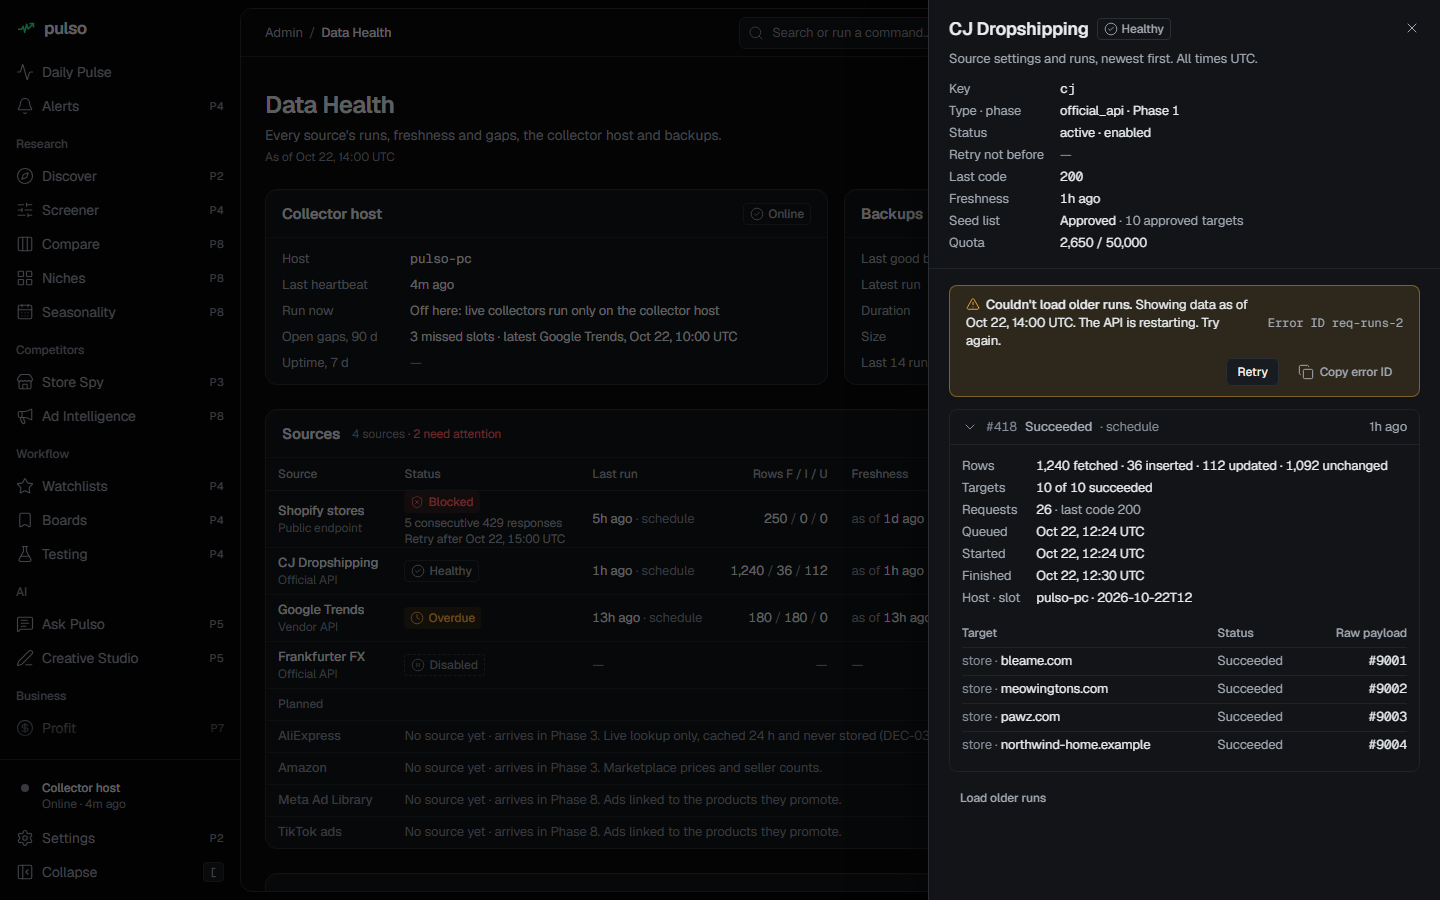
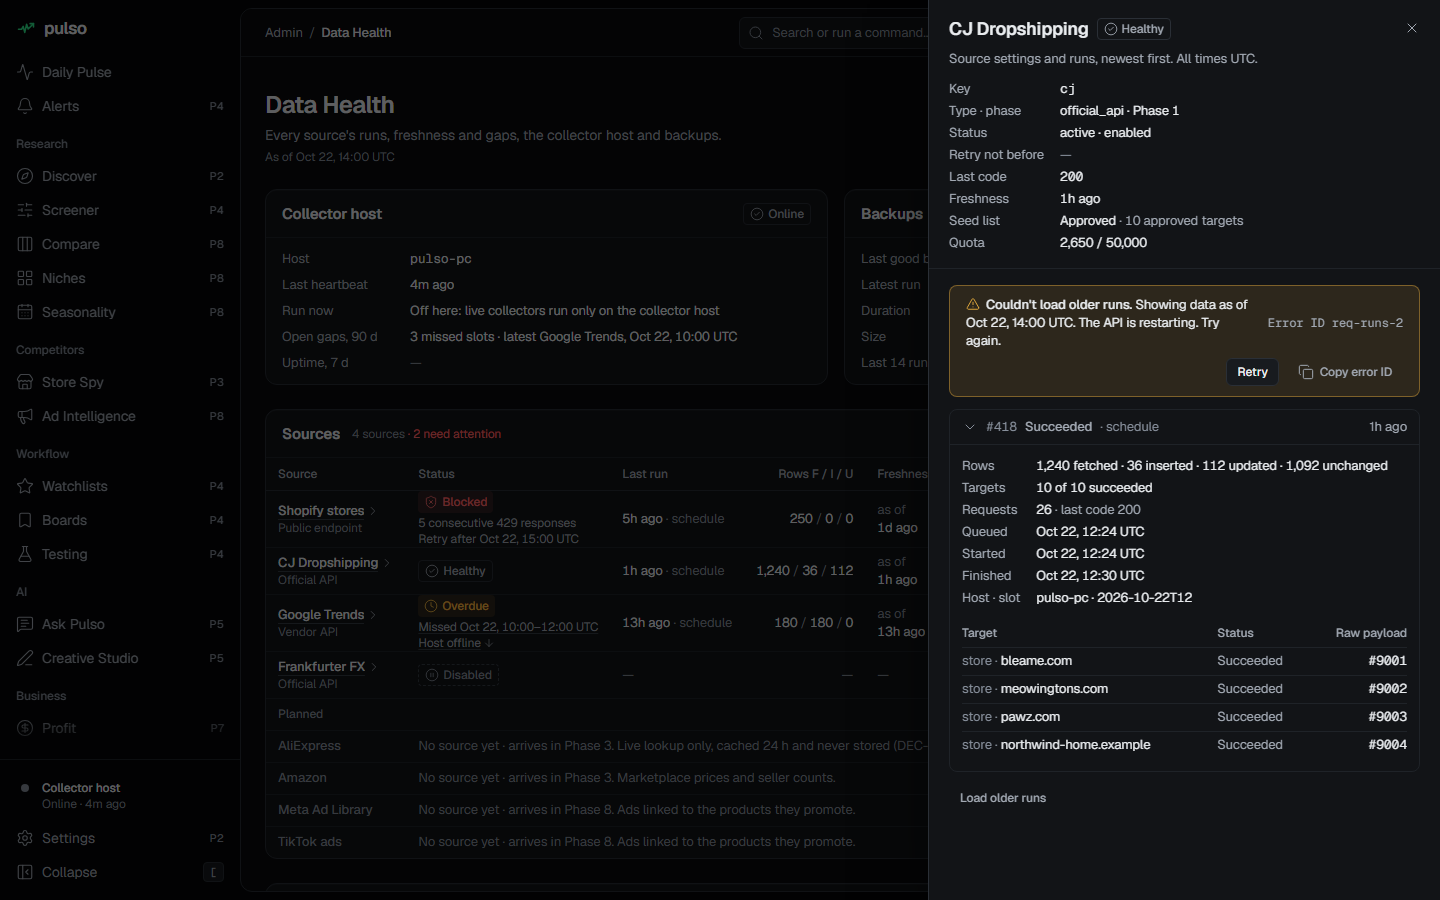
docs(imp-132): report the rebase onto imp-124 (75b194e); re-capture changed screenshots

diff --git a/docs/reports/imp-132.md b/docs/reports/imp-132.md
@@ -1,6 +1,6 @@
 # imp-132: a failed refresh keeps the data on screen
 
-Claude worker, Orca task `task_00e4b79bb63e`, dispatch `ctx_9520af0d9165`. Branch `CodySpooner/imp-132-stale-refresh`, code and spec tip `f41f716` (this report is committed on top) on `origin/main` `445f55d`. imp-123 and imp-133 weren't on `origin/main` at the final fetch, so they were checked by a trial merge (below). Frontend only: no API, schema, dependency, CI or env change. DEC-197 is used (proposed).
+Claude worker, Orca task `task_00e4b79bb63e`, dispatch `ctx_9520af0d9165`. Branch `CodySpooner/imp-132-stale-refresh`, code and spec tip `f41f716` (this report is committed on top) on `origin/main` `445f55d`. imp-123 and imp-133 weren't on `origin/main` at the final fetch, so they were checked by a trial merge (below). The branch has since been rebased onto imp-124 `75b194e`, which contains imp-123, imp-126 and imp-133 (see **Rebase**). Frontend only: no API, schema, dependency, CI or env change. DEC-197 is used (proposed).
 
 ## Result
 
@@ -81,6 +81,41 @@ Local note: another worktree's dev server held port 3100, and this worktree has 
 | `coverage-line-*` | Coverage panel after `/coverage` answered 503: strip; heatmap and open gaps kept |
 | `drawer-older-runs-*` | CJ drawer after "Load older runs" answered 503: line above the run already loaded |
 
+After the rebase, `page-line-*`, `sources-line-*` and `drawer-older-runs-1440-*` were re-captured: they now show imp-124's missed-slot note and imp-125's runs cue, the latter behind the drawer at 1440. The rest were pixel-identical and are kept.
+
+## Rebase
+
+Orca task `task_042cf8e71199`, dispatch `ctx_f150048a20ac`. **New base `75b194e`** (`CodySpooner/imp-124-overdue-runs-cue`: imp-124 + imp-125, DEC-198). It wasn't on `origin/main` (`20889b7`) at the fetch, so the branch is rebased onto it. It already contains `20889b7` (imp-133, DEC-196) and `d54d27e` (imp-123 + imp-126). The six commits `5804d54`..`b90f9f7` replay as `a52508d`..`6b6f5b2`, with this section and the re-captured screenshots committed on top.
+
+| File | Conflict | Resolution |
+|---|---|---|
+| `run-drawer.tsx` | Imports: imp-124's `GapsLink, OPEN_GAPS_ID` from `./coverage` against this branch's `StaleLine` | Both: `StaleLine` joins the atoms import, the coverage import stays |
+| `sources-table.tsx` | Imports: imp-124/125's `TapTooltip`, `GapsLink`, `missedNote`, `MissedSlot` against `useCoreDown`, `StaleLine` | Both, one import line per module |
+| `docs/DECISIONS.md` | DEC-198 and DEC-197 both appended after DEC-196 | Both, in the order DEC-196, DEC-198, DEC-197 |
+
+`atoms.tsx` and `coverage.tsx` merged on their own. `summary-cards.tsx`, `data-health.tsx`, `api.ts` and `import-panel.tsx` weren't touched by the base. No code changed beyond the conflict lines. How the merged behaviours hold together:
+
+- **imp-123 action failures** (`actionFailure`, the status line with its error ID) are untouched. A failed action and a stale line are separate lines.
+- **imp-133 Unknown while the host is missing:** the table, cards and drawer call `sourceState(source, host.data?.latest_gap_ends, now)`. After a failed host refetch, the last host answer is kept, so states stay as they were, under the Collector host line. Unknown and the "at least" counts still apply when the host has never answered.
+- **imp-124 missed-slot note:** it stays on the kept data, and Open gaps renders from the kept host data, so the note's `#open-gaps` link always has a target.
+- **imp-125 runs cue** on the source name is untouched.
+
+| Check (tip `6b6f5b2` + this commit) | Result |
+|---|---|
+| `git merge-tree --write-tree 75b194e HEAD` and `origin/main HEAD` | clean, both |
+| `pnpm install --frozen-lockfile` | up to date |
+| `pnpm --filter web lint` / `typecheck` / `build` | PASS / PASS / PASS |
+| `pnpm --filter web test` (Vitest) | **360 passed** (9 files) |
+| Playwright chromium, whole suite (port moved to 3932 only, as above) | **194/195**, then 1/1. The one failure (`data-health.spec.ts:376`, imp-073 touch hint) was `ENOENT` on its own trace files at context close: a screenshot run started during the suite and cleared `test-results/`. Re-run alone, it passed. |
+| Of those, the specs this rebase had to keep green | stale-refresh 7/7, missed-slot 17/17, host-unknown 3/3, action-failures 11/11, touch-targets 18/18 |
+| Screenshots (temporary spec, screenshots project) | 16/16 captured; 10 changed and committed, 6 identical and kept |
+| AA | no token or CSS change in the base, and `StaleLine` is unchanged, so the 16/16 check above still holds |
+| styleseed-design-review, composed screens after the rebase | **100/100**, no fix round needed. One leftover finding below, not this task's |
+
+Clicks and keys are unchanged: 0 clicks to keep reading, 1 (Retry or Enter) to recover, 1 Tab from Refresh to the page line's Retry (stale-refresh e2e).
+
+Leftover finding, proposed as a backlog row (not changed here, because it's imp-124's table layout and also shows in `docs/screenshots/imp-124/sources-1440-*`): at 1440 the Sources table's Freshness cell wraps to "as of / 1d ago" since the Status column gained the fixed 180 px missed-slot note. A `whitespace-nowrap` on that cell, or a narrower Rows column, would keep it on one line.
+
 ## Not done here (owned elsewhere)
 
 - **Announce a failure the owner triggered, and focus after Retry:** imp-135 (A14-04). Background refetches stay silent (vault Design/Accessibility).
@@ -91,6 +126,7 @@ Local note: another worktree's dev server held port 3100, and this worktree has 
 ## Proposed vault changes (for the lead; not applied)
 
 - **[[Improvement Backlog]]**, row imp-132: `done <date> (<merge sha>; DEC-197; styleseed 100/100)`.
+- **[[Improvement Backlog]]**, new row (from the rebase): "Data Health Sources table at 1440: the Freshness cell wraps ('as of / 1d ago') since imp-124's 180 px missed-slot note; keep it on one line (`whitespace-nowrap` or a narrower Rows column). Polish, web only."
 - **[[Data Health]] Log:** "<date> — imp-132 merged `<sha>` (claude): a failed refresh keeps every panel's rows and cards; one line says what failed, 'Showing data as of', Retry and Copy error ID (page level when both core calls fail, panel level otherwise); cached rows kept 0/4 → 4/4, hiding branches 10 → 0 (DEC-197)."
 - **[[UI States]] Log:** "<date> — imp-132 (claude): the Refreshing pattern holds after a failed refetch: content kept, with a stale line (`StaleLine`) as an overlay."
 - The body of [[Data Health]] now has a "Stale after a failed refresh (imp-132)" section (written by this worker). No acceptance ticks, status or Owner To-Dos change, and nothing here needs the owner.
